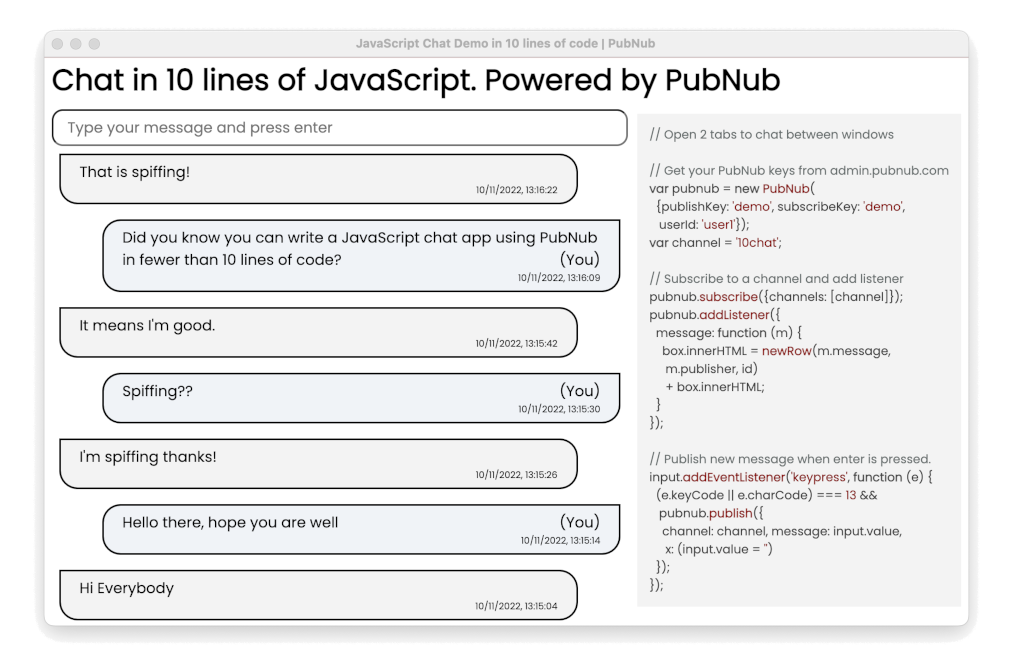
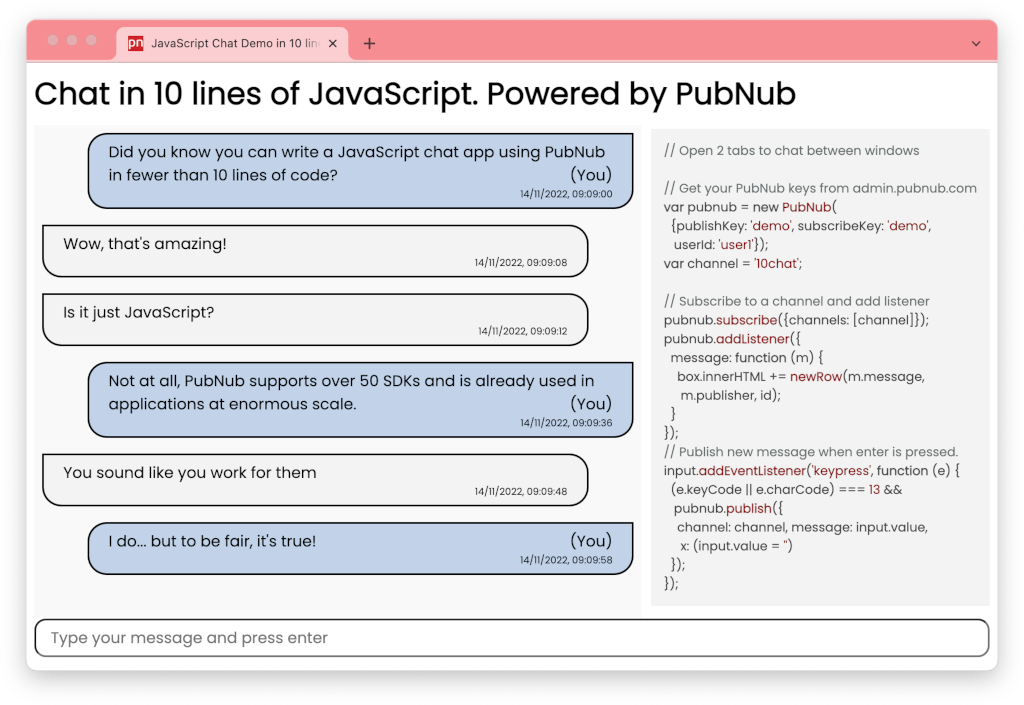
Incorporated review comments

diff --git a/index.html b/index.html
@@ -30,10 +30,7 @@
 
   <div class="flex-container">
 
-    <div class="flex-child">
-      <input id="input" placeholder="Type your message and press enter" />
-      <div id="outputDiv">
-      </div>
+    <div id="outputDiv" class="flex-child">
     </div>
 
     <div class="flex-child code-block">
@@ -49,12 +46,10 @@ var channel = '10chat';
 pubnub.subscribe({channels: [channel]}); 
 pubnub.addListener({
   message: function (m) {
-    box.innerHTML = newRow(m.message, 
-     m.publisher, id)
-     + box.innerHTML;
+    box.innerHTML += newRow(m.message, 
+     m.publisher);
   }
 });
-
 // Publish new message when enter is pressed. 
 input.addEventListener('keypress', function (e) {
   (e.keyCode || e.charCode) === 13 && 
@@ -67,6 +62,12 @@ input.addEventListener('keypress', function (e) {
     </div>
 
   </div>
+  <input id="input" placeholder="Type your message and press enter" />
+
+  
+  
+
+
 
   <!--  Begin count: lines of code to create a chat app with the PubNub SDK (count ;)-->
   <script src="https://cdn.pubnub.com/sdk/javascript/pubnub.7.2.0.min.js"></script>
@@ -77,11 +78,12 @@ input.addEventListener('keypress', function (e) {
       pubnub.subscribe({channels: [channel]}); // Subscribe to a channel.
       pubnub.addListener({
         message: function (m) {
-          box.innerHTML = newRow(m.message, m.publisher) + box.innerHTML;
+          box.innerHTML += newRow(m.message, m.publisher);
+          box.scrollTop = box.scrollHeight;
         }
       });
       input.addEventListener('keypress', function (e) {
-        (e.keyCode || e.charCode) === 13 && pubnub.publish({ // Publish new message when enter is pressed. 
+        (e.keyCode || e.charCode) === 13 && input.value != "" && pubnub.publish({ // Publish new message when enter is pressed. 
           channel: channel, message: input.value, x: (input.value = '')
         });
       });
@@ -95,7 +97,6 @@ input.addEventListener('keypress', function (e) {
       var you = "";
       var messageClass = "messageThem";
       var message = ('' + m).replace(/[<>]/g, '');
-      console.log(id);
 
       if (id === publisher) {
         you = "<span class='youText'> (You)</span>";

diff --git a/style.css b/style.css
@@ -14,6 +14,12 @@
 .flex-child:first-child {
     flex: 2;
     margin-right: 10px;
+    margin-top:9px;
+    background-color: rgb(249, 249, 249);
+    flex-direction:column;
+    max-height: 510px;
+    height:510px;
+    overflow:auto;
 } 
 
 @media (min-width: 768px) {
@@ -28,7 +34,6 @@ html * {
 
 input {
     width: 100%;
-    margin-top: 8px;
     padding: 6px 15px 6px 15px;
     box-sizing: border-box;
     border-radius: 12px;
@@ -44,7 +49,7 @@ h1 {
     width: 90%;
     padding: 6px 20px;
     margin: 8px;
-    background-color: #f0f3f7;
+    background-color: #c2d3e9;
     border-style: solid;
     border-color: black;
     border-width: 2px;
